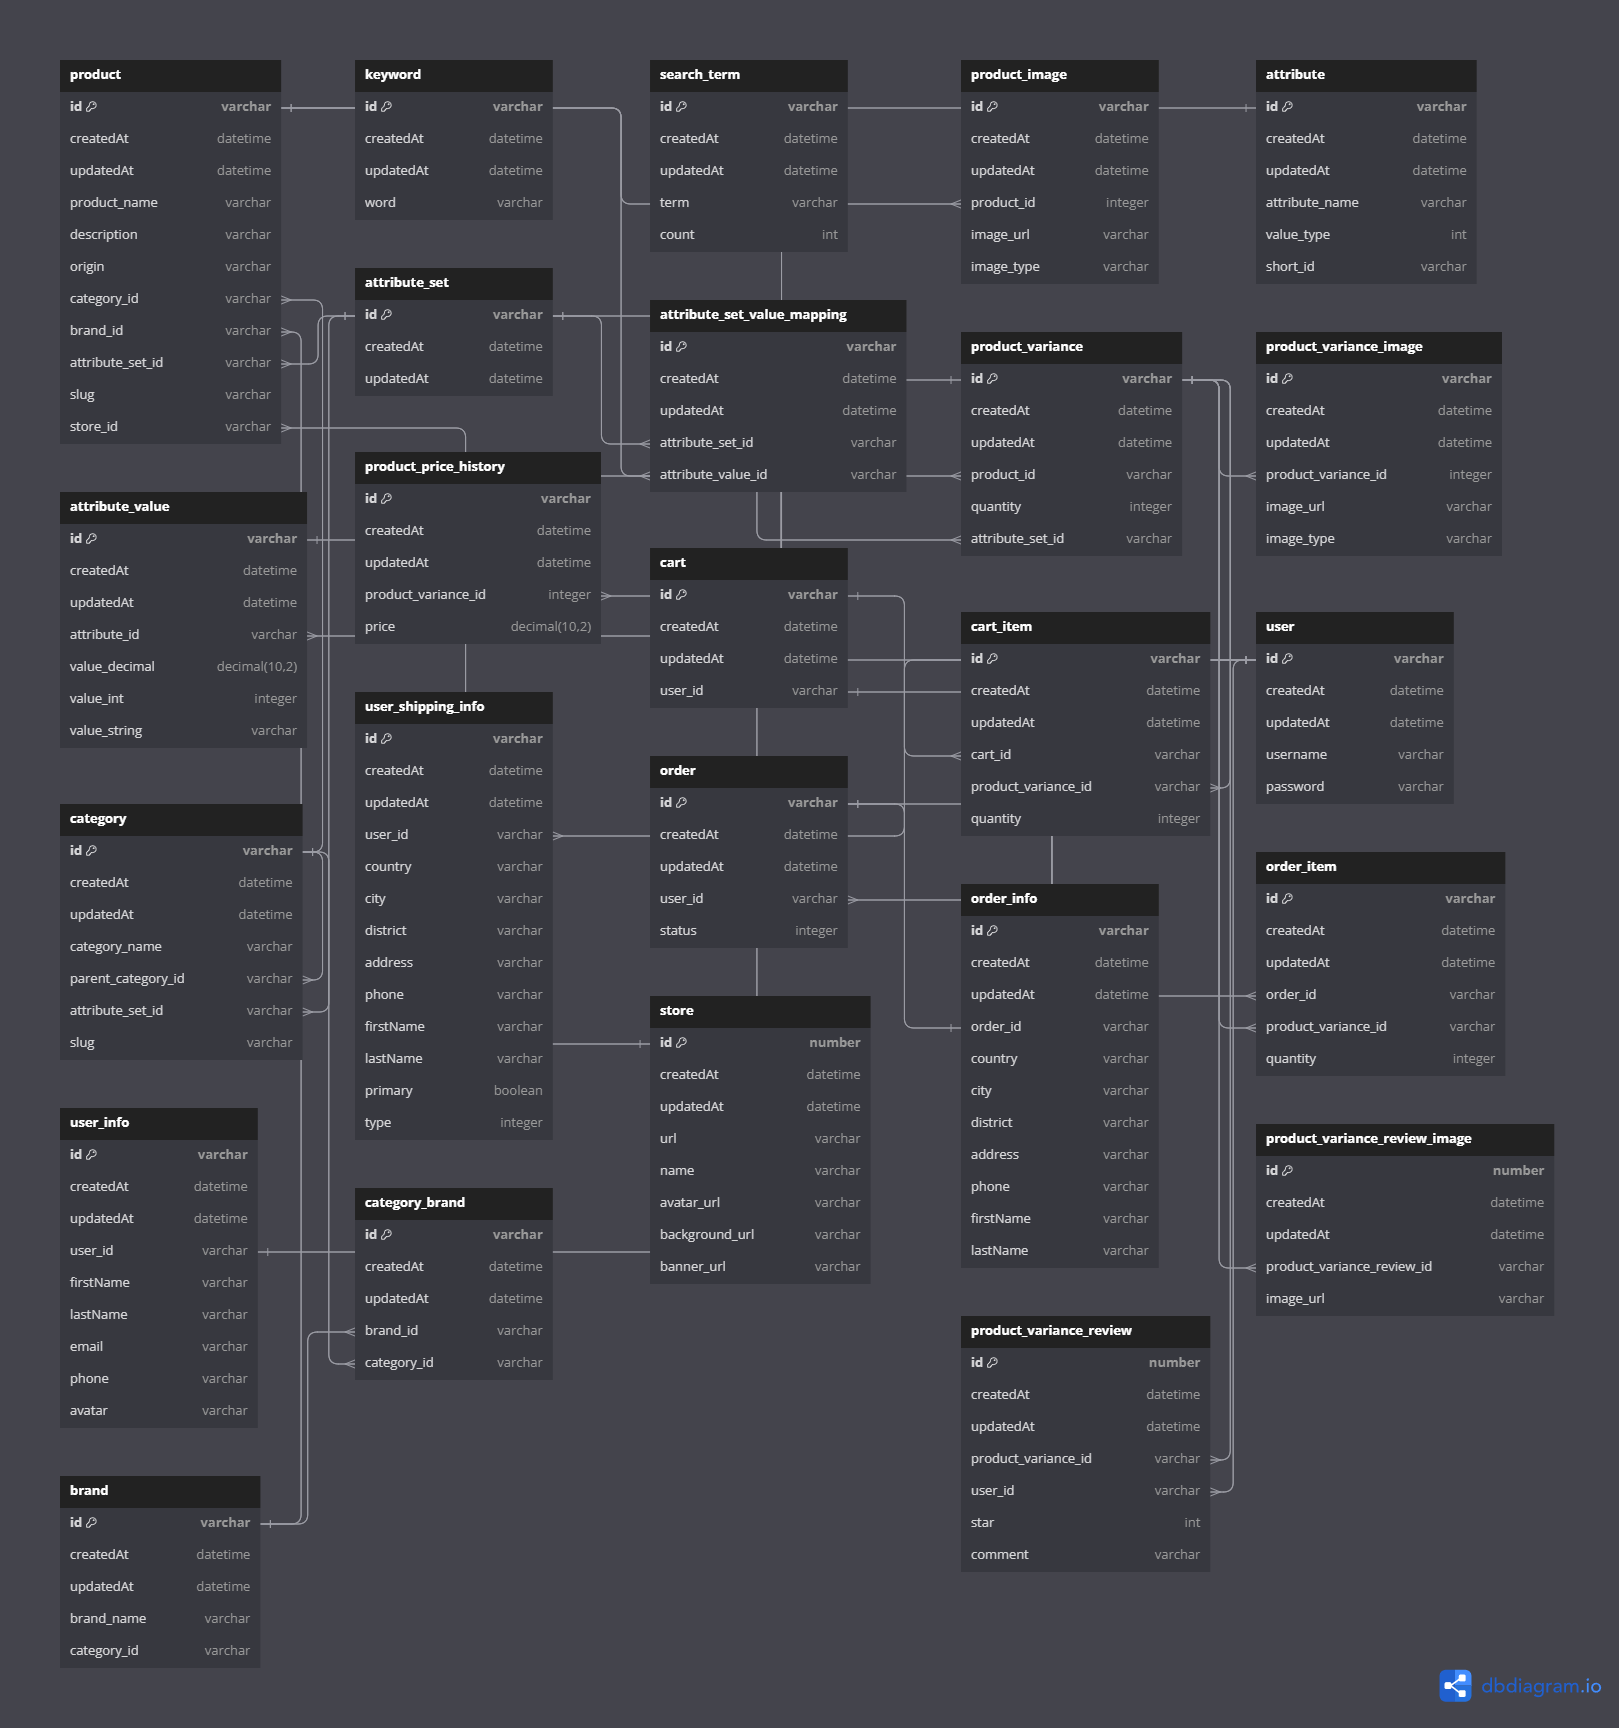
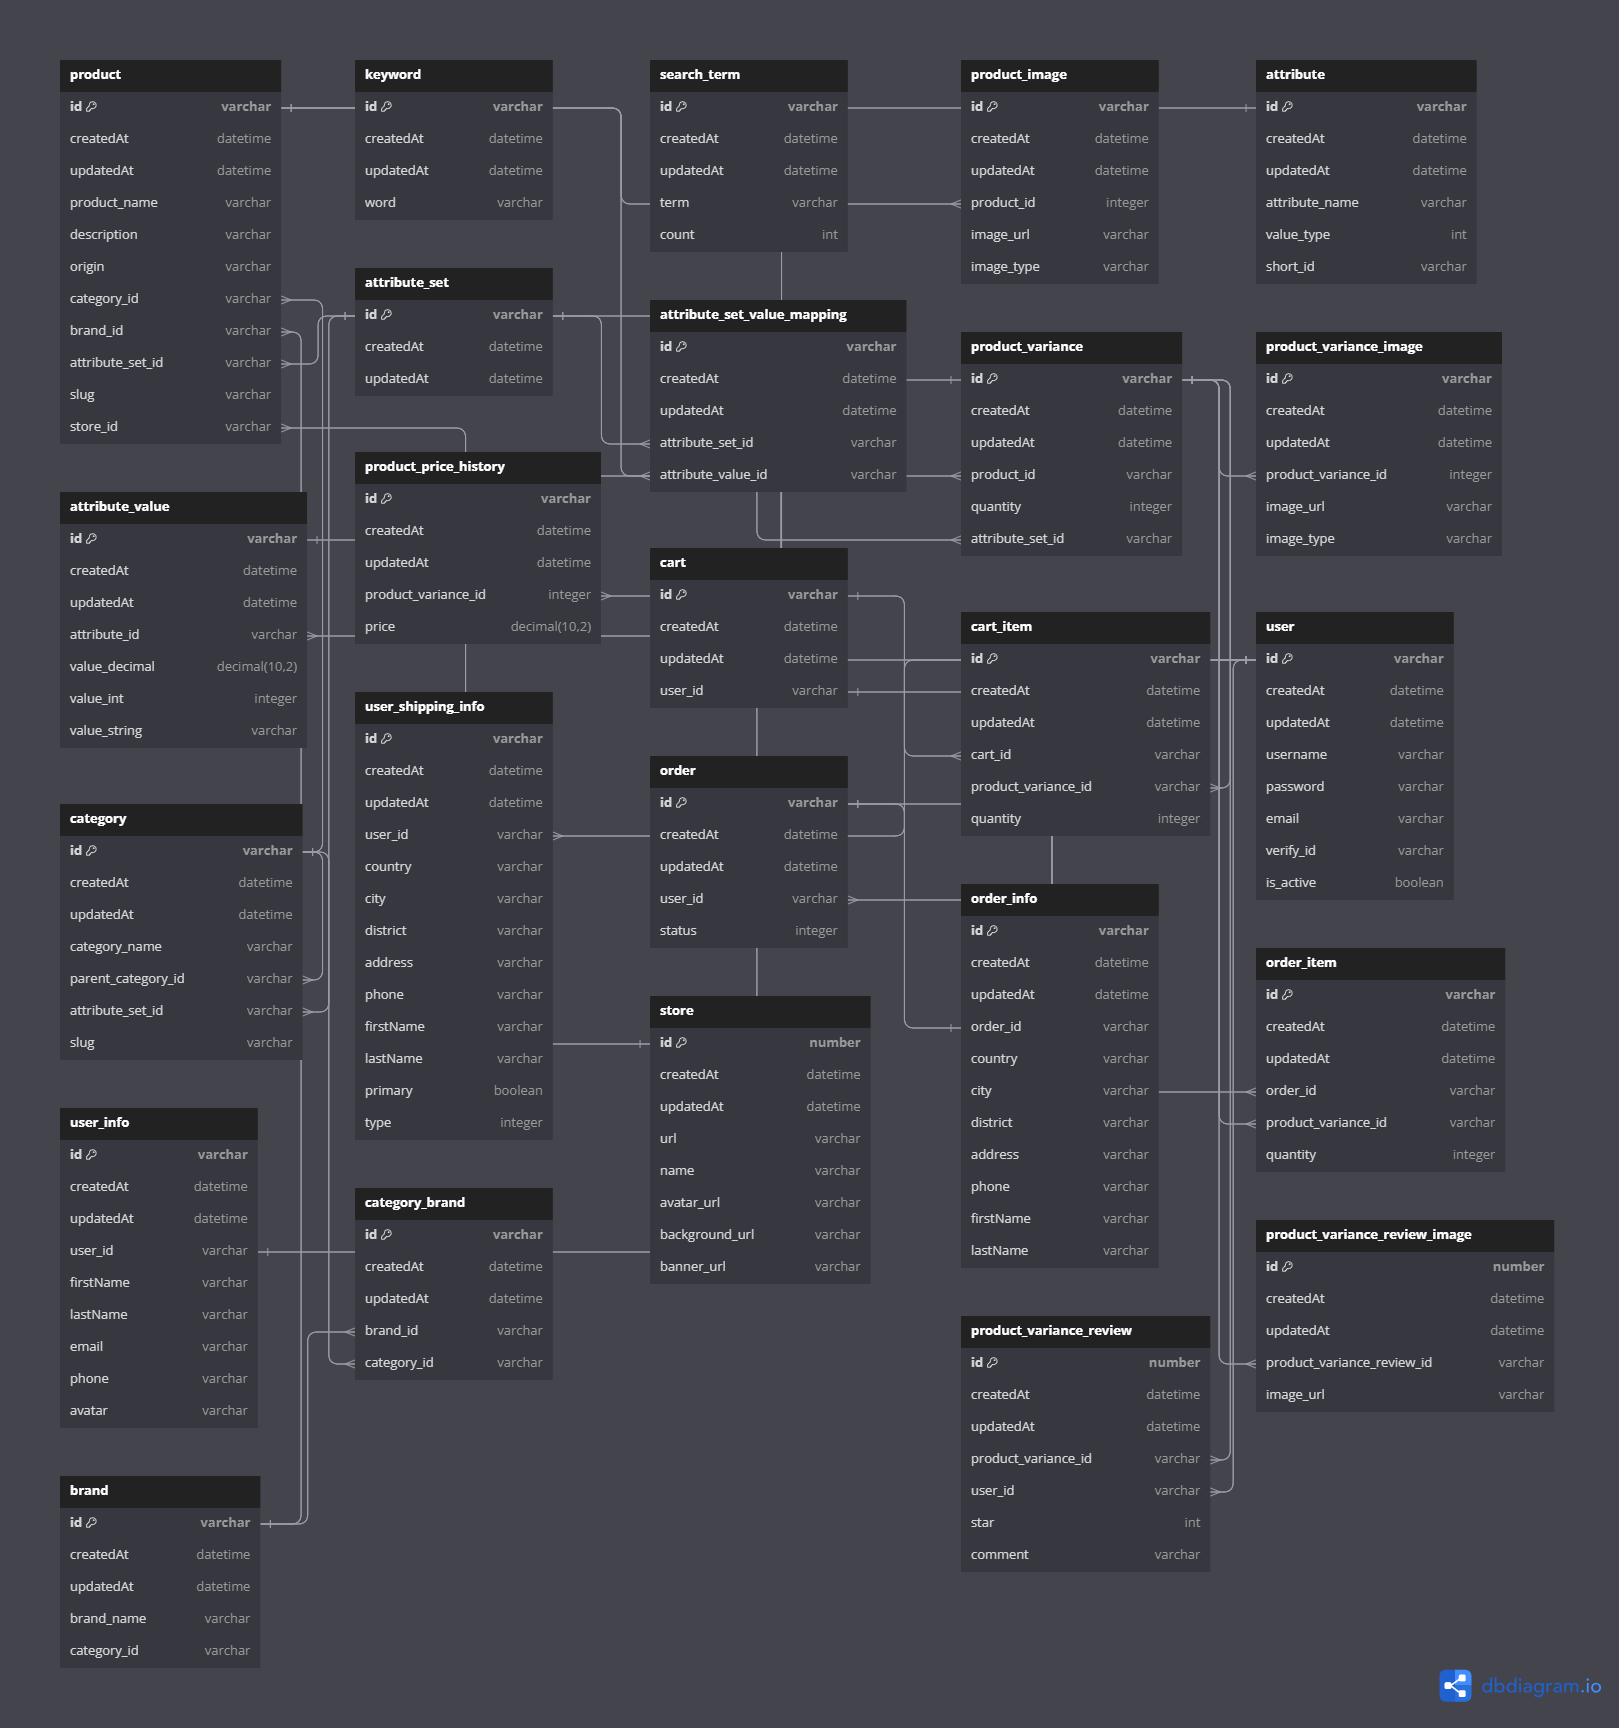
feat: add sign up service

Changed region(s): [[0.7721, 0.4688, 0.9574, 0.8125]]

diff --git a/src/modules/user/user.service.ts b/src/modules/user/user.service.ts
@@ -1,5 +1,6 @@
-import { Injectable } from '@nestjs/common'
+import { Inject, Injectable } from '@nestjs/common'
 import { InjectEntityManager, InjectRepository } from '@nestjs/typeorm'
+import shortid from 'shortid'
 import User from 'src/entities/user.entity'
 import { Repository, EntityManager } from 'typeorm'
 import { compareSync, hashSync } from 'bcrypt'
@@ -10,6 +11,9 @@ import AddToCartDTO from 'src/dtos/add-to-cart.dto'
 import Product from 'src/entities/product.entity'
 import RemoveFromCartDTO from 'src/dtos/remove-from-cart.dto'
 import { JwtService } from '@nestjs/jwt'
+import MailService from '../mail/mail.service'
+import LoginDTO from 'src/dtos/login.dto'
+import SendMailDTO from 'src/dtos/send-mail.dto'
 
 @Injectable()
 export class UserService {
@@ -19,6 +23,7 @@ export class UserService {
     @InjectRepository(Cart) private cartRepository: Repository<Cart>,
     @InjectRepository(CartItem) private cartItemRepository: Repository<CartItem>,
     @InjectRepository(Product) private productRepository: Repository<Product>,
+    @Inject(MailService) private mailService: MailService,
     private readonly jwtService: JwtService
   ) {}
 
@@ -27,19 +32,45 @@ export class UserService {
     return result
   }
 
-  async create(username: string, password: string): Promise<User> {
-    const checkExisted = await this.userRepository.findOne({ where: { username } })
-    const hashedPassword = hashSync(password, 10)
+  async create(createUserDTO: CreateUserDTO): Promise<User> {
+    const { username, email, password } = createUserDTO
+    const checkExisted = await this.userRepository.findOne({ where: [{ username }, { email }] })
     if (checkExisted) return null
+
+    const hashedPassword = hashSync(password, 10)
     const userRepository = this.userRepository.create({
       username,
       password: hashedPassword,
+      is_active: false,
+      email,
+      verify_id: shortid.generate(),
     })
     try {
-      const result = await userRepository.save()
-      return result
+      const newUserRes = await userRepository.save()
+      const sendMailDTO: SendMailDTO = {
+        htmlContent: `<h1>Click to this link: <a href='${process.env.CLIENT_HOST_URL}/verify/${newUserRes.verify_id}'>${process.env.CLIENT_HOST_URL}/verify/${newUserRes.verify_id}</a> to verify your account`,
+        subject: 'Verify Account',
+        to: newUserRes.email,
+      }
+      this.mailService.handleSendMail(sendMailDTO)
+      return newUserRes
     } catch (error) {
+      console.log(error)
       return null
+    }
+  }
+
+  async verifyAccount(verifyId: string): Promise<-1 | 0 | 1> {
+    try {
+      const user = await this.userRepository.findOne({ where: { verify_id: verifyId } })
+      if (!user) return -1
+      if (user.is_active) return 0
+      user.is_active = true
+      await user.save()
+      return 1
+    } catch (error) {
+      console.log('verifyAccount error: ' + error)
+      return -1
     }
   }
 
@@ -84,11 +115,11 @@ export class UserService {
     return formattedCartData
   }
 
-  async login(loginDTO: CreateUserDTO): Promise<User> {
-    let user = await this.userRepository.findOne({ where: { username: loginDTO.username } })
-
+  async login(loginDTO: LoginDTO): Promise<User> {
+    let user = await this.userRepository.findOne({ where: { username: loginDTO.username, is_active: true } })
     if (!user) return null
     const isPasswordValid = compareSync(loginDTO.password, user.password)
+    console.log(isPasswordValid)
     if (isPasswordValid) {
       const userCart = await this.cartRepository.findOne({ where: { user_id: user.id } })
       if (userCart) {

diff --git a/src/modules/user/user.controller.ts b/src/modules/user/user.controller.ts
@@ -1,4 +1,4 @@
-import { Body, Controller, Get, Param, Post, Req, Res, UseGuards } from '@nestjs/common'
+import { Body, Controller, Get, Param, Post, Put, Req, Res, UseGuards } from '@nestjs/common'
 import { UserService } from './user.service'
 import { Response } from 'express'
 import { ApiBody, ApiCreatedResponse, ApiParam, ApiResponse, ApiTags } from '@nestjs/swagger'
@@ -10,6 +10,8 @@ import AddToCartDTO from 'src/dtos/add-to-cart.dto'
 import Cart from 'src/entities/cart.entity'
 import { TokenVerifyGuard } from '../auth/tokenVerify.guard'
 import RemoveFromCartDTO from 'src/dtos/remove-from-cart.dto'
+import LoginDTO from 'src/dtos/login.dto'
+import VerifyAccountDTO from 'src/dtos/verify-account.dto'
 
 @ApiTags('User')
 @Controller('users')
@@ -24,17 +26,17 @@ export class UserController {
 
   @ApiBody({ type: CreateUserDTO })
   @ApiCreatedResponse({ description: 'The record has been successfully created.', type: User })
-  @Post('/create')
-  async createUser(@Body() body: { username: string; password: string }, @Res() res: Response) {
-    const result = await this.service.create(body.username, body.password)
-    if (!result) return res.status(400).json({ error: 'Dup username' })
-    return res.status(201).json(result)
+  @Post('/sign-up')
+  async createUser(@Body() createUserDTO: CreateUserDTO, @Res() res: Response) {
+    const result = await this.service.create(createUserDTO)
+    if (!result) return res.status(400).json({ error: 'Username or email already existed' })
+    return res.status(201).json({ message: 'Sign up success!' })
   }
 
-  @ApiBody({ type: CreateUserDTO })
+  @ApiBody({ type: LoginDTO })
   @ApiResponse({ description: 'Login success', status: 200, type: User })
   @Post('login')
-  async login(@Body() loginDTO: CreateUserDTO, @Res() res: Response) {
+  async login(@Body() loginDTO: LoginDTO, @Res() res: Response) {
     const response = await this.service.login(loginDTO)
     if (response) {
       const refreshToken = await this.authService.signToken('refresh_token', { id: response.id })
@@ -129,5 +131,14 @@ export class UserController {
     res.clearCookie('access_token', { path: '/', sameSite: 'none', secure: true })
     res.clearCookie('refresh_token', { path: '/', sameSite: 'none', secure: true })
     return res.status(200).json({ message: 'Logout success' })
+  }
+
+  @ApiBody({ type: VerifyAccountDTO })
+  @Put('verify')
+  async verifyAccount(@Body() verifyAccountDTO: VerifyAccountDTO, @Res() res: Response) {
+    const response = await this.service.verifyAccount(verifyAccountDTO.verify_id)
+    if (response === -1) return res.status(404).json({ error: 'Wrong verify link' })
+    if (response === 0) return res.status(400).json({ error: 'Account already verified' })
+    return res.status(200).json({ message: 'Verify account successfully!' })
   }
 }

diff --git a/src/modules/mail/mail.controller.ts b/src/modules/mail/mail.controller.ts
@@ -12,8 +12,8 @@ export class MailController {
   @ApiBody({ type: SendMailDTO })
   @Post('send-email')
   async sendEmail(@Body() sendMailDTO: SendMailDTO, @Res() res: Response) {
-    const isSuccess = this.service.testTaskMailQueue(sendMailDTO)
-    if (!isSuccess) return res.status(400).json('Send email failed')
-    return res.status(200).json('Send email success')
+    const isSuccess = this.service.sendQueueTask_SendEmail(sendMailDTO)
+    if (!isSuccess) return res.status(400).json('Task send email failed')
+    return res.status(200).json('Task send email success')
   }
 }

diff --git a/src/dtos/login.dto.ts b/src/dtos/login.dto.ts
@@ -1,7 +1,7 @@
 import { ApiProperty } from '@nestjs/swagger'
 import { IsEmail, IsNotEmpty, IsString } from 'class-validator'
 
-export default class CreateUserDTO {
+export default class LoginDTO {
   @ApiProperty({ type: String, description: 'username', required: true })
   @IsString()
   @IsNotEmpty()
@@ -11,10 +11,4 @@ export default class CreateUserDTO {
   @IsString()
   @IsNotEmpty()
   password: string
-
-  @ApiProperty({ type: String, description: 'email', required: true })
-  @IsString()
-  @IsEmail()
-  @IsNotEmpty()
-  email: string
 }

diff --git a/src/entities/user.entity.ts b/src/entities/user.entity.ts
@@ -16,6 +16,18 @@ class User extends CustomBase {
   password: string
 
   @ApiProperty()
+  @Column({ type: 'varchar', nullable: false, unique: true })
+  email: string
+
+  @ApiProperty()
+  @Column({ type: 'boolean', nullable: false, default: false })
+  is_active: boolean
+
+  @ApiProperty()
+  @Column({ type: 'varchar', nullable: false, unique: true })
+  verify_id: string
+
+  @ApiProperty()
   @OneToMany(() => UserShippingInfo, (userShippingInfo) => userShippingInfo.user, { eager: true })
   userShippingInfos: UserShippingInfo[]
 

diff --git a/src/modules/mail/mail.service.ts b/src/modules/mail/mail.service.ts
@@ -39,7 +39,7 @@ export default class MailService {
     )
   }
 
-  testTaskMailQueue(sendMailDTO: SendMailDTO) {
+  sendQueueTask_SendEmail(sendMailDTO: SendMailDTO) {
     try {
       return this.rabbitMqChannel.sendToQueue('task_send_mail', Buffer.from(JSON.stringify(sendMailDTO)), {
         persistent: true,

diff --git a/src/dtos/verify-account.dto.ts b/src/dtos/verify-account.dto.ts
@@ -1,0 +1,9 @@
+import { ApiProperty } from '@nestjs/swagger'
+import { IsEmail, IsNotEmpty, IsString } from 'class-validator'
+
+export default class VerifyAccountDTO {
+  @ApiProperty({ type: String, description: 'Verify Id', required: true })
+  @IsString()
+  @IsNotEmpty()
+  verify_id: string
+}

diff --git a/src/app.module.ts b/src/app.module.ts
@@ -111,7 +111,7 @@ import { MailModule } from './modules/mail/mail.module'
   ],
   controllers: [AppController],
   providers: [AppService],
-  exports: [UserModule],
+  exports: [UserModule, MailModule],
 })
 export class AppModule {
   constructor(private datasource: DataSource) {}

diff --git a/src/modules/mail/mail.module.ts b/src/modules/mail/mail.module.ts
@@ -1,7 +1,8 @@
-import { Module } from '@nestjs/common'
+import { Global, Module } from '@nestjs/common'
 import MailService from './mail.service'
 import { MailController } from './mail.controller'
 
+@Global()
 @Module({
   imports: [],
   controllers: [MailController],
